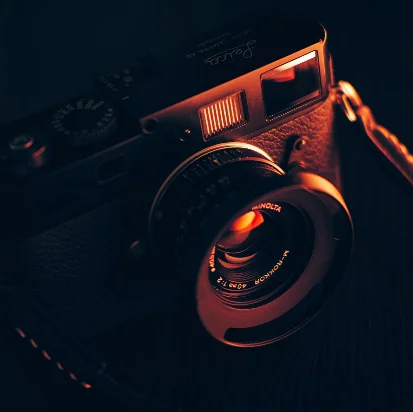
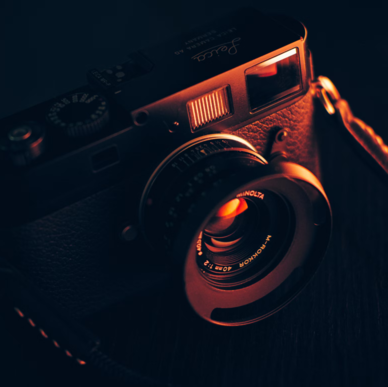
changement image dimension avec proportion

diff --git a/index.html b/index.html
@@ -80,10 +80,10 @@
                 srcset="
                   ./assets/images/slider/ryoji-iwata-wUZjnOv7t0g-unsplash_650.webp   650w,
                   ./assets/images/slider/ryoji-iwata-wUZjnOv7t0g-unsplash_1000.webp 1000w,
-                  ./assets/images/slider/ryoji-iwata-wUZjnOv7t0g-unsplash.webp      1440w
+                  ./assets/images/slider/ryoji-iwata-wUZjnOv7t0g-unsplash_1440.webp 1440w
                 "
                 sizes="650px, 1000px, 1180px"
-                src="./assets/images/slider/ryoji-iwata-wUZjnOv7t0g-unsplash.webp"
+                src="./assets/images/slider/ryoji-iwata-wUZjnOv7t0g-unsplash_1440.webp"
                 class="d-block w-100"
                 alt="Photo d'un homme sur un passage piéton"
               />
@@ -93,9 +93,9 @@
                 srcset="
                   ./assets/images/slider/nicholas-green-nPz8akkUmDI-unsplash_650.webp   650w,
                   ./assets/images/slider/nicholas-green-nPz8akkUmDI-unsplash_1000.webp 1000w,
-                  ./assets/images/slider/nicholas-green-nPz8akkUmDI-unsplash.webp      1440w
+                  ./assets/images/slider/nicholas-green-nPz8akkUmDI-unsplash_1440.webp 1440w
                 "
-                src="./assets/images/slider/nicholas-green-nPz8akkUmDI-unsplash.webp"
+                src="./assets/images/slider/nicholas-green-nPz8akkUmDI-unsplash_1440.webp"
                 sizes="650px, 1000px, 1180px"
                 class="d-block w-100"
                 alt="Photo de plusieurs personnes lors d'un concert"
@@ -106,9 +106,9 @@
                 srcset="
                   ./assets/images/slider/edward-cisneros-3_h6-1NPDGw-unsplash_650.webp   650w,
                   ./assets/images/slider/edward-cisneros-3_h6-1NPDGw-unsplash_1000.webp 1000w,
-                  ./assets/images/slider/edward-cisneros-3_h6-1NPDGw-unsplash.webp      1440w
+                  ./assets/images/slider/edward-cisneros-3_h6-1NPDGw-unsplash_1440.webp 1440w
                 "
-                src="./assets/images/slider/edward-cisneros-3_h6-1NPDGw-unsplash.webp"
+                src="./assets/images/slider/edward-cisneros-3_h6-1NPDGw-unsplash_1440.webp"
                 sizes="650px, 1000px, 1180px"
                 class="d-block w-100"
                 alt="Photo d'un couple de mariée"
@@ -140,7 +140,7 @@
           <img
             srcset="
               ./assets/images/nina_469.webp 469w,
-              .assets/images/nina.webp      400w
+              .assets/images/nina_400.webp  400w
             "
             sizes="650px, 1000px"
             src="./assets/images/nina_469.webp"
@@ -178,10 +178,10 @@
               srcset="
                 ./assets/images/gallery/concerts/aaron-paul-wnX-fXzB6Cw-unsplash_254.webp 254w,
                 ./assets/images/gallery/concerts/aaron-paul-wnX-fXzB6Cw-unsplash_304.webp 304w,
-                ./assets/images/gallery/concerts/aaron-paul-wnX-fXzB6Cw-unsplash.webp     424w
+                ./assets/images/gallery/concerts/aaron-paul-wnX-fXzB6Cw-unsplash_424.webp 424w
               "
               sizes="650px, 1000px, 1180px"
-              src="./assets/images/gallery/concerts/aaron-paul-wnX-fXzB6Cw-unsplash.webp"
+              src="./assets/images/gallery/concerts/aaron-paul-wnX-fXzB6Cw-unsplash_424.webp"
               alt="photo d'un concert de musique"
             />
             <img
@@ -190,10 +190,10 @@
               srcset="
                 ./assets/images/gallery/entreprise/ali-morshedlou-WMD64tMfc4k-unsplash_254.webp 254w,
                 ./assets/images/gallery/entreprise/ali-morshedlou-WMD64tMfc4k-unsplash_304.webp 304w,
-                ./assets/images/gallery/entreprise/ali-morshedlou-WMD64tMfc4k-unsplash.webp     424w
+                ./assets/images/gallery/entreprise/ali-morshedlou-WMD64tMfc4k-unsplash_424.webp 424w
               "
               sizes="650px, 1000px, 1180px"
-              src="./assets/images/gallery/entreprise/ali-morshedlou-WMD64tMfc4k-unsplash.webp"
+              src="./assets/images/gallery/entreprise/ali-morshedlou-WMD64tMfc4k-unsplash_424.webp"
               alt="photo d'un homme d'entreprise"
             />
             <img
@@ -202,10 +202,10 @@
               srcset="
                 ./assets/images/gallery/entreprise/jason-goodman-tHO1_OuKbg0-unsplash_254.webp 254w,
                 ./assets/images/gallery/entreprise/jason-goodman-tHO1_OuKbg0-unsplash_304.webp 304w,
-                ./assets/images/gallery/entreprise/jason-goodman-tHO1_OuKbg0-unsplash.webp     424w
+                ./assets/images/gallery/entreprise/jason-goodman-tHO1_OuKbg0-unsplash_424.webp 424w
               "
               sizes="650px, 1000px, 1180px"
-              src="./assets/images/gallery/entreprise/jason-goodman-tHO1_OuKbg0-unsplash.webp"
+              src="./assets/images/gallery/entreprise/jason-goodman-tHO1_OuKbg0-unsplash_424.webp"
               alt="photo d'une femme en entreprise"
             />
             <img
@@ -214,10 +214,10 @@
               srcset="
                 ./assets/images/gallery/mariage/hannah-busing-RvF2R_qMpRk-unsplash_254.webp 254w,
                 ./assets/images/gallery/mariage/hannah-busing-RvF2R_qMpRk-unsplash_304.webp 304w,
-                ./assets/images/gallery/mariage/hannah-busing-RvF2R_qMpRk-unsplash.webp     424w
+                ./assets/images/gallery/mariage/hannah-busing-RvF2R_qMpRk-unsplash_424.webp 424w
               "
               sizes="650px, 1000px, 1180px"
-              src="./assets/images/gallery/mariage/hannah-busing-RvF2R_qMpRk-unsplash.webp"
+              src="./assets/images/gallery/mariage/hannah-busing-RvF2R_qMpRk-unsplash_424.webp"
               alt="photo des mains d'un couple de mariée"
             />
             <img
@@ -226,24 +226,34 @@
               srcset="
                 ./assets/images/gallery/portraits/ade-tunji-rVkhWWZFAtQ-unsplash_254.webp 254w,
                 ./assets/images/gallery/portraits/ade-tunji-rVkhWWZFAtQ-unsplash_304.webp 304w,
-                ./assets/images/gallery/portraits/ade-tunji-rVkhWWZFAtQ-unsplash.webp     424w
+                ./assets/images/gallery/portraits/ade-tunji-rVkhWWZFAtQ-unsplash_424.webp 424w
               "
               sizes="650px, 1000px, 1180px"
-              src="./assets/images/gallery/portraits/ade-tunji-rVkhWWZFAtQ-unsplash.webp"
+              src="./assets/images/gallery/portraits/ade-tunji-rVkhWWZFAtQ-unsplash_424.webp"
               alt="Photo portrait d'un homme"
             />
             <img
               data-gallery-tag="Mariages"
               class="gallery-item"
+              srcset="
+                .assets/images/gallery/mariage/jakob-owens-SiniLJkXhMc-unsplash_254.webp 254w,
+                .assets/images/gallery/mariage/jakob-owens-SiniLJkXhMc-unsplash_304.webp 304w,
+                .assets/images/gallery/mariage/jakob-owens-SiniLJkXhMc-unsplash_424.webp 424w
+              "
               sizes="650px, 1000px, 1180px"
-              src="./assets/images/gallery/mariage/jakob-owens-SiniLJkXhMc-unsplash.jpg"
+              src="./assets/images/gallery/mariage/jakob-owens-SiniLJkXhMc-unsplash_424.webp"
               alt="Photo couple de mariée heureux"
             />
             <img
               data-gallery-tag="Portrait"
               class="gallery-item"
+              srcset="
+                ./assets/images/gallery/portraits/nino-van-prattenburg--443cl1uR_8-unsplash_254.webp 254w,
+                ./assets/images/gallery/portraits/nino-van-prattenburg--443cl1uR_8-unsplash_304.webp 304w,
+                ./assets/images/gallery/portraits/nino-van-prattenburg--443cl1uR_8-unsplash_424.webp 424w
+              "
               sizes="650px, 1000px, 1180px"
-              src="./assets/images/gallery/portraits/nino-van-prattenburg--443cl1uR_8-unsplash.jpg"
+              src="./assets/images/gallery/portraits/nino-van-prattenburg--443cl1uR_8-unsplash_424.webp"
               alt="Photo portrait d'une femme"
             />
             <img
@@ -252,10 +262,10 @@
               srcset="
                 ./assets/images/gallery/concerts/austin-neill-hgO1wFPXl3I-unsplash_254.webp 254w,
                 ./assets/images/gallery/concerts/austin-neill-hgO1wFPXl3I-unsplash_304.webp 304w,
-                ./assets/images/gallery/concerts/austin-neill-hgO1wFPXl3I-unsplash.webp     424w
+                ./assets/images/gallery/concerts/austin-neill-hgO1wFPXl3I-unsplash_424.webp 424w
               "
               sizes="650px, 1000px, 1180px"
-              src="./assets/images/gallery/concerts/austin-neill-hgO1wFPXl3I-unsplash.webp"
+              src="./assets/images/gallery/concerts/austin-neill-hgO1wFPXl3I-unsplash_424.webp"
               alt="Photo d'un chanteur lors d'un concert"
             />
             <img
@@ -264,10 +274,10 @@
               srcset="
                 ./assets/images/gallery/entreprise/mateus-campos-felipe-Fsgzm8N0hIY-unsplash_254.webp  254w,
                 ./assets/images/gallery/entreprise/mateus-campos-felipe-Fsgzm8N0hIY-unsplash_304w.webp 304w,
-                ./assets/images/gallery/entreprise/mateus-campos-felipe-Fsgzm8N0hIY-unsplash.webp      424w
+                ./assets/images/gallery/entreprise/mateus-campos-felipe-Fsgzm8N0hIY-unsplash_424.webp  424w
               "
               sizes="650px, 1000px, 1180px"
-              src="./assets/images/gallery/entreprise/mateus-campos-felipe-Fsgzm8N0hIY-unsplash.webp"
+              src="./assets/images/gallery/entreprise/mateus-campos-felipe-Fsgzm8N0hIY-unsplash_424.webp"
               alt="Photo d'une femme en entreprise"
             />
           </div>
@@ -375,10 +385,10 @@
               srcset="
                 ./assets/images/camera_413.webp 413w,
                 ./assets/images/camera_388.webp 388w,
-                ./assets/images/camera.webp     392w
+                ./assets/images/camera_392.webp 392w
               "
               sizes="650px, 1000px, 1180px"
-              src="./assets/images/camera.webp"
+              src="./assets/images/camera_392.webp"
               alt="Photo d'un appareil photo"
             />
           </div>
